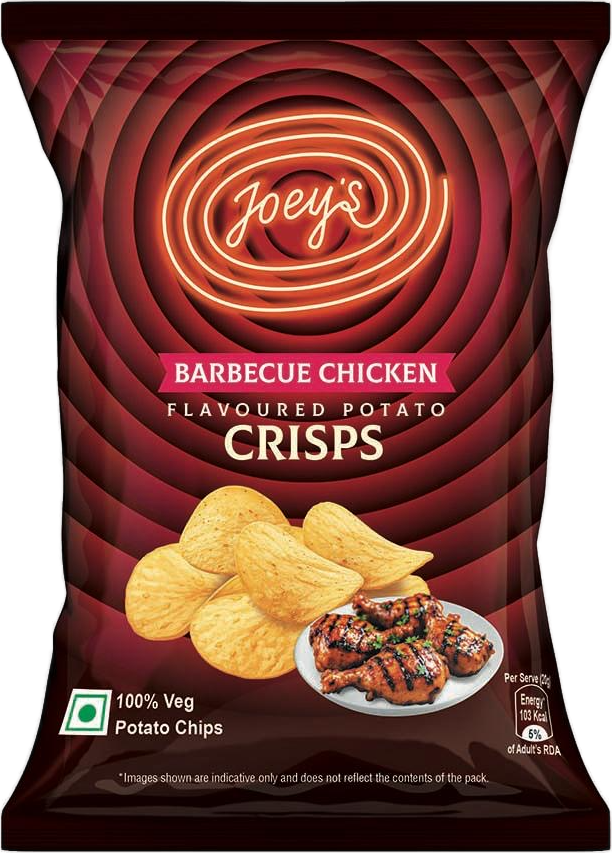
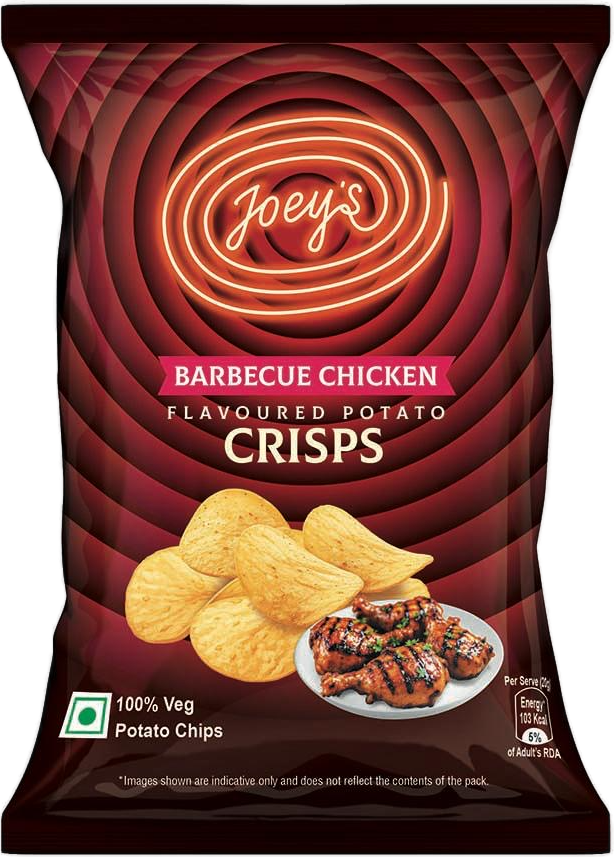
Use chip-and-dish art in the flavour rails and relight the packs menu
The home rail and mobile menu now show the supplied chip-and-dish
compositions on per-flavour radial washes instead of the pack discs.
The mega menu tiles swap their dark flavour-base wash for a warm
tungsten spotlight so the dark bags separate from the tile. Pack
shots replaced with the final background-removed cuts, trimmed of
their transparent margins.

diff --git a/src/app/page.tsx b/src/app/page.tsx
@@ -296,14 +296,19 @@ export default function Home() {
                     className="block rounded-full p-[7px] transition-transform duration-[240ms] ease-[cubic-bezier(0.23,1,0.32,1)] group-hover:-translate-y-1.5"
                     style={{ background: f.ring }}
                   >
-                    <Image
-                      data-morph
-                      src={f.disc}
-                      alt={`Joey's ${f.name} crisps`}
-                      width={500}
-                      height={500}
-                      className="h-[176px] w-[176px] rounded-full object-cover sm:h-[246px] sm:w-[246px]"
-                    />
+                    <span
+                      className="flex h-[176px] w-[176px] items-center justify-center overflow-hidden rounded-full sm:h-[246px] sm:w-[246px]"
+                      style={{ background: f.dishBg }}
+                    >
+                      <Image
+                        data-morph
+                        src={f.dish}
+                        alt={`Joey's ${f.name} crisps`}
+                        width={500}
+                        height={500}
+                        className="h-[148px] w-[148px] object-contain drop-shadow-[0_16px_24px_rgba(0,0,0,0.5)] transition-transform duration-[240ms] ease-[cubic-bezier(0.23,1,0.32,1)] group-hover:scale-[1.04] sm:h-[206px] sm:w-[206px]"
+                      />
+                    </span>
                   </span>
                   <span className="head mt-5 flex items-center gap-1.5 border-b-2 border-transparent pb-1 text-[15px] text-cream transition-colors duration-[180ms] group-hover:border-gold group-hover:text-gold sm:text-[17px]">
                     {f.name}

diff --git a/src/components/PacksMegaMenu.tsx b/src/components/PacksMegaMenu.tsx
@@ -54,7 +54,10 @@ export function PacksMegaMenu({
                 <span
                   className="ripple relative grid h-[118px] w-[94px] shrink-0 place-items-center overflow-hidden rounded-[11px]"
                   style={{
-                    background: `radial-gradient(ellipse at 50% 28%, ${f.ring}33 0%, ${f.base} 55%, #1b0710 100%)`,
+                    /* Dark bag on a dark tile needs a rim light: one warm
+                       tungsten spotlight (same as the neon logo) over each
+                       flavour's own base colour. */
+                    background: `radial-gradient(circle at 50% 30%, #ffedc9 0%, rgba(247,183,86,0.5) 42%, ${f.base} 82%, #1b0710 100%)`,
                   }}
                 >
                   <Image
@@ -64,7 +67,8 @@ export function PacksMegaMenu({
                     aria-hidden
                     width={612}
                     height={853}
-                    className="w-[70%] drop-shadow-[0_10px_16px_rgba(0,0,0,0.5)] transition-transform duration-[260ms] ease-[cubic-bezier(0.23,1,0.32,1)] group-hover:-translate-y-1"
+                    className="w-[66%] transition-transform duration-[260ms] ease-[cubic-bezier(0.23,1,0.32,1)] group-hover:-translate-y-1"
+                    style={{ filter: "drop-shadow(0 10px 16px rgba(0,0,0,0.5)) drop-shadow(0 0 14px rgba(255,214,140,0.6))" }}
                   />
                 </span>
 

diff --git a/src/lib/flavours.ts b/src/lib/flavours.ts
@@ -13,6 +13,10 @@ export type Flavour = {
   bandInk: string;
   pack: string;
   disc: string;
+  /** Chips-and-dish composition shot (transparent PNG). */
+  dish: string;
+  /** Circular wash behind `dish`, echoing the flavour page hero. */
+  dishBg: string;
   ring: string;
 };
 
@@ -28,6 +32,8 @@ export const flavours: Flavour[] = [
     bandInk: "#ffffff",
     pack: "/packs/barbecue-chicken.png",
     disc: "/packs/disc-barbecue-chicken.png",
+    dish: "/packs/dish-barbecue-chicken.png",
+    dishBg: "radial-gradient(ellipse at 50% 30%, rgb(127 70 81) 0%, #5b1220 62%, #16060c 100%)",
     ring: "#e0532e",
   },
   {
@@ -41,6 +47,8 @@ export const flavours: Flavour[] = [
     bandInk: "#ffffff",
     pack: "/packs/smokey-bacon.png",
     disc: "/packs/disc-smokey-bacon.png",
+    dish: "/packs/dish-smokey-bacon.png",
+    dishBg: "radial-gradient(ellipse at 50% 30%, rgb(72 78 101) 0%, #141c3a 62%, #16060c 100%)",
     ring: "#f5b921",
   },
   {
@@ -54,6 +62,8 @@ export const flavours: Flavour[] = [
     bandInk: "#3b0d14",
     pack: "/packs/prawn-cocktail.png",
     disc: "/packs/disc-prawn-cocktail.png",
+    dish: "/packs/dish-prawn-cocktail.png",
+    dishBg: "radial-gradient(ellipse at 50% 30%, rgb(104 69 94) 0%, #3d1030 62%, #16060c 100%)",
     ring: "#ef8fa6",
   },
 ];

diff --git a/src/components/MobileMenu.tsx b/src/components/MobileMenu.tsx
@@ -91,15 +91,20 @@ export function MobileMenu({
                   className="block shrink-0 rounded-full p-[3px]"
                   style={{ background: f.ring }}
                 >
-                  <Image
-                    data-morph
-                    src={f.disc}
-                    alt=""
-                    aria-hidden
-                    width={500}
-                    height={500}
-                    className="h-14 w-14 rounded-full object-cover"
-                  />
+                  <span
+                    className="flex h-14 w-14 items-center justify-center overflow-hidden rounded-full"
+                    style={{ background: f.dishBg }}
+                  >
+                    <Image
+                      data-morph
+                      src={f.dish}
+                      alt=""
+                      aria-hidden
+                      width={500}
+                      height={500}
+                      className="h-12 w-12 object-contain drop-shadow-[0_4px_8px_rgba(0,0,0,0.45)]"
+                    />
+                  </span>
                 </span>
                 <span className="min-w-0 flex-1">
                   <span className="head block text-[16px] text-cream">{f.name}</span>
